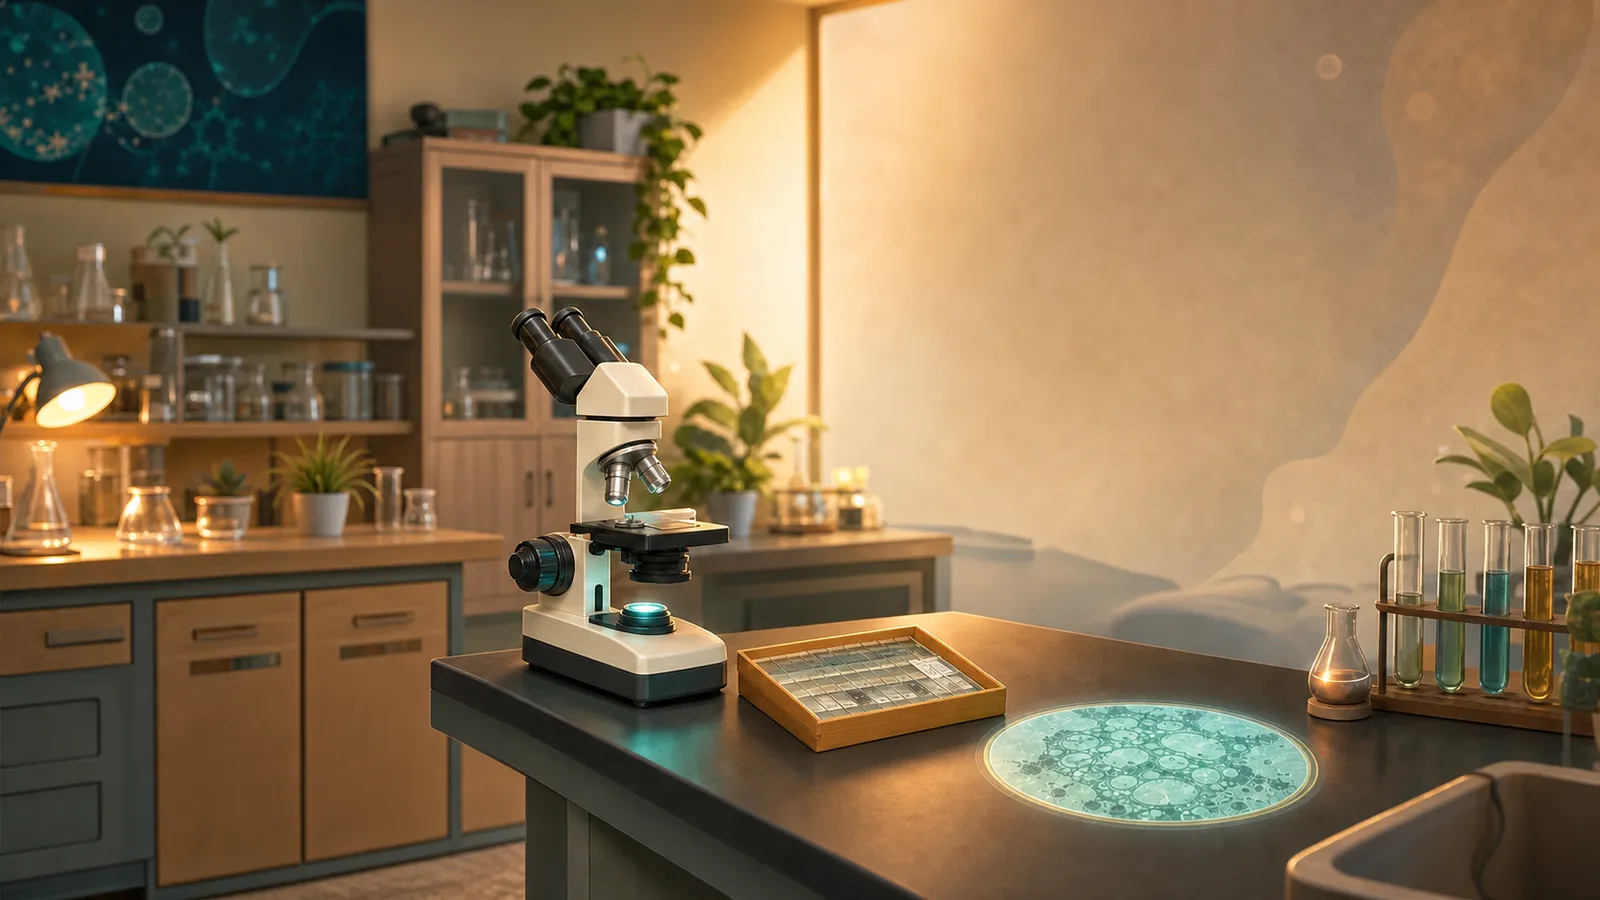
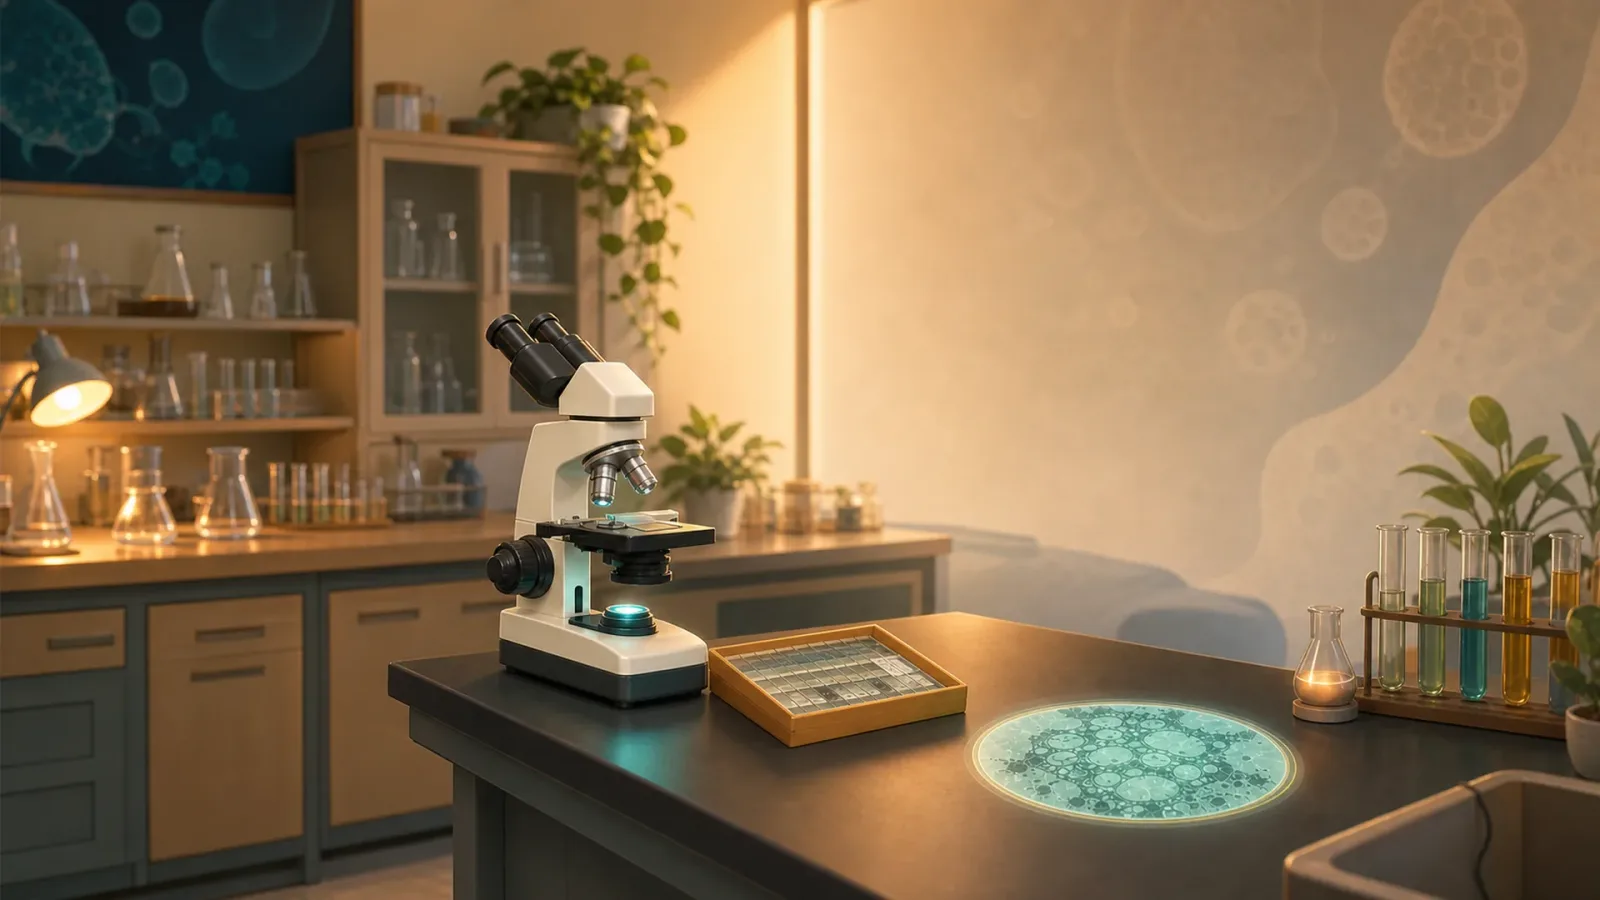
Fix cell structure role layout and cache bust

diff --git a/prototype-cell-structure/styles.css b/prototype-cell-structure/styles.css
@@ -829,6 +829,28 @@ textarea {
   outline-offset: 3px;
 }
 
+.structure-chips {
+  display: flex;
+  flex-wrap: wrap;
+  gap: 8px;
+  margin-top: 14px;
+}
+
+.structure-chip {
+  min-height: 40px;
+  padding: 8px 10px;
+  color: var(--teal-dark);
+  border: 1px solid rgba(11, 95, 118, 0.24);
+  border-radius: 8px;
+  background: #fff;
+  font-weight: 850;
+}
+
+.structure-chip.active {
+  color: #fff;
+  background: var(--teal-dark);
+}
+
 .cell-note {
   margin: 10px 0 0;
   color: var(--muted);
@@ -1235,7 +1257,11 @@ textarea {
   .score-grid,
   .badge-grid,
   .mission-hud,
-  .structure-explorer {
+  .structure-explorer,
+  .brief-character-grid,
+  .title-avatar-card,
+  .prep-owl-hero,
+  .report-owl-hero {
     grid-template-columns: 1fr;
   }
 
@@ -1268,6 +1294,20 @@ textarea {
 
   .owl-frame img {
     max-height: 300px;
+  }
+
+  .title-avatar-visual {
+    height: 240px;
+  }
+
+  .prep-owl-visual,
+  .report-owl-visual {
+    min-height: 190px;
+  }
+
+  .prep-owl-visual img,
+  .report-owl-visual img {
+    max-height: 230px;
   }
 
   .hero-title {
@@ -1368,6 +1408,11 @@ textarea {
 
   .cell-hotspot {
     width: 14%;
+    min-height: 0;
+    padding: 0;
+    border-color: transparent;
+    background: transparent;
+    box-shadow: none;
   }
 
   .structure-card strong {

diff --git a/portal.js b/portal.js
@@ -7,7 +7,7 @@ const units = [
     summary: "正式順序第一單元。已完成學生端靜態原型，含生命現象、生物/非生物、環境條件、EXP 與徽章。",
     tags: ["正式原型", "生命現象", "已可測試"],
     aliases: ["多采多姿的生命世界"],
-    url: "prototype-life-world/?v=20260712-ambient-layout-v1"
+    url: "prototype-life-world/?v=[phone redacted]-cell-structure-consistency-v1"
   },
   {
     title: "探究自然的科學方法",
@@ -16,7 +16,7 @@ const units = [
     sequence: 2,
     summary: "正式順序第二單元。已完成學生端靜態原型，含流程排序、變因分類、資料判讀與結論修正。",
     tags: ["正式原型", "科學方法", "已可測試"],
-    url: "prototype-scientific-method/?v=20260712-ambient-layout-v1"
+    url: "prototype-scientific-method/?v=[phone redacted]-cell-structure-consistency-v1"
   },
   {
     title: "進入實驗室",
@@ -25,7 +25,7 @@ const units = [
     sequence: 3,
     summary: "正式順序第三單元。已完成學生端靜態原型，含器材功能、器材選用、安全情境、操作順序與實驗紀錄。",
     tags: ["正式原型", "實驗安全", "已可測試"],
-    url: "prototype-lab-entry/?v=20260712-ambient-layout-v1"
+    url: "prototype-lab-entry/?v=[phone redacted]-cell-structure-consistency-v1"
   },
   {
     title: "顯微鏡的使用",
@@ -34,7 +34,7 @@ const units = [
     sequence: 4,
     summary: "正式順序第四單元。已完成學生端靜態原型，含部位功能、低倍到高倍操作、倍率視野與搬運收納安全。",
     tags: ["正式原型", "顯微鏡", "已可測試"],
-    url: "prototype-microscope-use/?v=20260712-ambient-layout-v1"
+    url: "prototype-microscope-use/?v=[phone redacted]-cell-structure-consistency-v1"
   },
   {
     title: "生物體的基本單位",
@@ -43,16 +43,16 @@ const units = [
     sequence: 5,
     summary: "正式順序第五單元。已完成學生端靜態原型，含細胞基本單位、單細胞/多細胞、形狀功能與顯微證據判讀。",
     tags: ["正式原型", "細胞", "已可測試"],
-    url: "prototype-cell-basic-unit/?v=[phone redacted]-ambient-layout-v1"
+    url: "prototype-cell-basic-unit/?v=[phone redacted]-cell-structure-consistency-v1"
   },
-  { title: "細胞的構造", unitId: "cell_structure", status: "ready", sequence: 6, summary: "已有模板驗證原型，具細胞圖、構造高亮、配對、比較、EXP 明細與徽章。", tags: ["模板驗證", "細胞構造", "已可測試"], url: "prototype-cell-structure/?v=[phone redacted]-ambient-layout-v1", note: "模板驗證單元" },
-  { title: "細胞的觀察", unitId: "cell_observation", status: "ready", sequence: 7, summary: "正式順序第七單元。已完成學生端靜態原型，含玻片製作、低高倍策略、顯微視野判讀、染色目的與迷思修正。", tags: ["正式原型", "顯微觀察", "已可測試"], url: "prototype-cell-observation/?v=[phone redacted]-badge-layout-v5" },
-  { title: "物質進出細胞的方式", unitId: "cell_transport", status: "ready", sequence: 8, summary: "正式順序第八單元。已完成學生端靜態原型，含擴散與滲透、半透膜、濃度方向、資料判讀與動植物細胞變化。", tags: ["正式原型", "擴散", "滲透", "已可測試"], url: "prototype-cell-transport/?v=[phone redacted]-badge-layout-v5" },
-  { title: "生物體的組成層次", unitId: "biological_organization", status: "ready", sequence: 9, summary: "正式順序第九單元。已完成學生端靜態原型，含組成層次排序、例子分類、單多細胞判斷、植物器官與動植物比較。", tags: ["正式原型", "組成層次", "排序", "植物器官", "已可測試"], url: "prototype-biological-organization/?v=20260711-badge-layout-v5" },
-  { title: "尺度", unitId: "scale", status: "ready", sequence: 10, summary: "正式順序第十單元。已完成學生端靜態原型，含尺度排序、單位配對、觀察工具、標尺判讀、圖像與實際大小。", tags: ["正式原型", "尺度", "比例尺", "觀察工具", "已可測試"], url: "prototype-scale/?v=20260711-badge-layout-v5" },
-  { title: "食物中的養分與能量", unitId: "nutrients_energy", status: "ready", sequence: 11, summary: "正式順序第十一單元。已完成學生端靜態原型，含養分功能、主要食物來源、能量判斷、營養資料與均衡飲食。", tags: ["正式原型", "養分", "能量", "均衡飲食", "已可測試"], url: "prototype-nutrients-energy/?v=20260711-badge-layout-v5" },
-  { title: "養分檢測", unitId: "nutrient_test", status: "ready", sequence: 12, summary: "正式順序第十二單元。已完成學生端靜態原型，含檢測結果判讀、試劑與養分配對、對照組、資料證據與安全判斷。", tags: ["正式原型", "養分檢測", "證據判讀", "安全", "已可測試"], url: "prototype-nutrient-test/?v=20260711-badge-layout-v5" },
-  { title: "酵素", unitId: "enzymes", status: "ready", sequence: 13, summary: "正式順序第十三單元。已完成學生端靜態原型，含酵素作用、專一性、可重複作用、溫度與酸鹼值資料判讀及消化情境。", tags: ["正式原型", "酵素", "專一性", "資料判讀", "已可測試"], url: "prototype-enzymes/?v=20260711-badge-layout-v5" },
+  { title: "細胞的構造", unitId: "cell_structure", status: "ready", sequence: 6, summary: "已有模板驗證原型，具細胞圖、構造高亮、配對、比較、EXP 明細與徽章。", tags: ["模板驗證", "細胞構造", "已可測試"], url: "prototype-cell-structure/?v=[phone redacted]-cell-structure-consistency-v1", note: "模板驗證單元" },
+  { title: "細胞的觀察", unitId: "cell_observation", status: "ready", sequence: 7, summary: "正式順序第七單元。已完成學生端靜態原型，含玻片製作、低高倍策略、顯微視野判讀、染色目的與迷思修正。", tags: ["正式原型", "顯微觀察", "已可測試"], url: "prototype-cell-observation/?v=[phone redacted]-cell-structure-consistency-v1" },
+  { title: "物質進出細胞的方式", unitId: "cell_transport", status: "ready", sequence: 8, summary: "正式順序第八單元。已完成學生端靜態原型，含擴散與滲透、半透膜、濃度方向、資料判讀與動植物細胞變化。", tags: ["正式原型", "擴散", "滲透", "已可測試"], url: "prototype-cell-transport/?v=[phone redacted]-cell-structure-consistency-v1" },
+  { title: "生物體的組成層次", unitId: "biological_organization", status: "ready", sequence: 9, summary: "正式順序第九單元。已完成學生端靜態原型，含組成層次排序、例子分類、單多細胞判斷、植物器官與動植物比較。", tags: ["正式原型", "組成層次", "排序", "植物器官", "已可測試"], url: "prototype-biological-organization/?v=[phone redacted]-cell-structure-consistency-v1" },
+  { title: "尺度", unitId: "scale", status: "ready", sequence: 10, summary: "正式順序第十單元。已完成學生端靜態原型，含尺度排序、單位配對、觀察工具、標尺判讀、圖像與實際大小。", tags: ["正式原型", "尺度", "比例尺", "觀察工具", "已可測試"], url: "prototype-scale/?v=[phone redacted]-cell-structure-consistency-v1" },
+  { title: "食物中的養分與能量", unitId: "nutrients_energy", status: "ready", sequence: 11, summary: "正式順序第十一單元。已完成學生端靜態原型，含養分功能、主要食物來源、能量判斷、營養資料與均衡飲食。", tags: ["正式原型", "養分", "能量", "均衡飲食", "已可測試"], url: "prototype-nutrients-energy/?v=[phone redacted]-cell-structure-consistency-v1" },
+  { title: "養分檢測", unitId: "nutrient_test", status: "ready", sequence: 12, summary: "正式順序第十二單元。已完成學生端靜態原型，含檢測結果判讀、試劑與養分配對、對照組、資料證據與安全判斷。", tags: ["正式原型", "養分檢測", "證據判讀", "安全", "已可測試"], url: "prototype-nutrient-test/?v=[phone redacted]-cell-structure-consistency-v1" },
+  { title: "酵素", unitId: "enzymes", status: "ready", sequence: 13, summary: "正式順序第十三單元。已完成學生端靜態原型，含酵素作用、專一性、可重複作用、溫度與酸鹼值資料判讀及消化情境。", tags: ["正式原型", "酵素", "專一性", "資料判讀", "已可測試"], url: "prototype-enzymes/?v=[phone redacted]-cell-structure-consistency-v1" },
   { title: "植物如何製造養分", unitId: "photosynthesis", status: "spec", sequence: 14, summary: "已有學科與成就規格，尚未製作正式學生端網頁；需等待視覺素材、BadgeRules 與主控確認後建立原型。", tags: ["規格備料", "光合作用", "葉綠體", "變因判讀"] },
   { title: "人體如何獲得養分", unitId: "human_nutrition", status: "spec", sequence: 15, summary: "已有學科與成就規格，尚未製作正式學生端網頁；需等待視覺素材、BadgeRules 與主控確認後建立原型。", tags: ["規格備料", "消化", "吸收", "食物流向"] },
   { title: "植物的運輸構造", unitId: "plant_transport_structures", status: "planned", sequence: 16, summary: "根、莖、葉與維管束相關構造。", tags: ["植物", "運輸"] },

diff --git a/prototype-cell-structure/index.html b/prototype-cell-structure/index.html
@@ -4,8 +4,8 @@
   <meta charset="utf-8">
   <meta name="viewport" content="width=device-width, initial-scale=1">
   <title>生命祕境 BioQuest｜細胞工廠的祕密</title>
-  <link rel="stylesheet" href="styles.css?v=20260712-ambient-layout-v1">
-  <link rel="stylesheet" href="../shared-assets/bioquest-character-layout.css?v=20260711-badge-layout-v5">
+  <link rel="stylesheet" href="styles.css?v=[phone redacted]-cell-structure-consistency-v1">
+  <link rel="stylesheet" href="../shared-assets/bioquest-character-layout.css?v=[phone redacted]-cell-structure-consistency-v1">
 </head>
 <body data-unit-id="cell_structure" data-login-cover-wide="../shared-assets/login/bioquest-login-cover-wide.webp" data-login-cover-mobile="../shared-assets/login/bioquest-login-cover-mobile.webp" data-feedback-mentor-base="../shared-assets/mentor-feedback" data-report-owl-src="../shared-assets/characters/owl-bioquest-report-reminder.webp" data-result-owl-src="../prototype-cell-basic-unit/assets/owl-basic-unit-result.png">
   <div class="app-shell">
@@ -45,6 +45,6 @@
 
   <script src="../shared-assets/bioquest-title-progress.js?v=20260711-title-nonlinear-v2"></script>
   <script src="../shared-assets/bioquest-character-layout.js?v=20260711-character-layout-v4"></script>
-  <script src="app.js?v=20260712-ambient-layout-v1"></script>
+  <script src="app.js?v=[phone redacted]-cell-structure-consistency-v1"></script>
 </body>
 </html>

diff --git a/prototype-microscope-use/index.html b/prototype-microscope-use/index.html
@@ -4,8 +4,8 @@
   <meta charset="utf-8">
   <meta name="viewport" content="width=device-width, initial-scale=1">
   <title>生命祕境 BioQuest｜微觀視野校準任務</title>
-  <link rel="stylesheet" href="styles.css?v=20260712-ambient-layout-v1">
-  <link rel="stylesheet" href="../shared-assets/bioquest-character-layout.css?v=20260711-badge-layout-v5">
+  <link rel="stylesheet" href="styles.css?v=[phone redacted]-cell-structure-consistency-v1">
+  <link rel="stylesheet" href="../shared-assets/bioquest-character-layout.css?v=[phone redacted]-cell-structure-consistency-v1">
 </head>
 <body data-unit-id="microscope_use" data-login-cover-wide="../shared-assets/login/bioquest-login-cover-wide.webp" data-login-cover-mobile="../shared-assets/login/bioquest-login-cover-mobile.webp" data-feedback-mentor-base="../shared-assets/mentor-feedback" data-report-owl-src="../shared-assets/characters/owl-bioquest-report-reminder.webp" data-result-owl-src="../prototype-cell-basic-unit/assets/owl-basic-unit-result.png">
   <div class="app-shell">
@@ -45,6 +45,6 @@
 
   <script src="../shared-assets/bioquest-title-progress.js?v=20260711-title-nonlinear-v2"></script>
   <script src="../shared-assets/bioquest-character-layout.js?v=20260711-character-layout-v4"></script>
-  <script src="app.js?v=20260712-ambient-layout-v1"></script>
+  <script src="app.js?v=[phone redacted]-cell-structure-consistency-v1"></script>
 </body>
 </html>

diff --git a/prototype-cell-structure/app.js b/prototype-cell-structure/app.js
@@ -240,13 +240,14 @@ function titleAvatarPath() {
 
 function renderTitleAvatarCard(context = "brief") {
   const title = titleForExp(state.student ? aggregateStudent().totalExp : 0);
+  const displayTitle = state.student?.current_title || title.current;
   const fallbackAvatar = `../shared-assets/title-avatars/title-01-trainee_investigator-${titleAvatarGender()}.png`;
   return `
     <aside class="title-avatar-card ${context}" data-title-avatar-path="${titleAvatarPath()}">
-      <div class="title-avatar-visual"><img src="${titleAvatarPath()}" alt="${title.current}稱號角色" loading="eager" onerror="this.onerror=null;this.src='${fallbackAvatar}'"></div>
+      <div class="title-avatar-visual"><img src="${titleAvatarPath()}" alt="${displayTitle}稱號角色" loading="eager" onerror="this.onerror=null;this.src='${fallbackAvatar}'"></div>
       <div>
         <span>學生稱號角色</span>
-        <strong>${title.current}</strong>
+        <strong>${displayTitle}</strong>
         <p>${context === "brief" ? "以目前稱號進入本單元任務。" : `累積 ${state.student ? aggregateStudent().totalExp : 0} EXP`}</p>
       </div>
     </aside>

diff --git a/index.html b/index.html
@@ -57,10 +57,10 @@
         <h2>細胞的構造</h2>
         <p>這是先用來建立標準小節模板的驗證單元，因此保留在入口頁，但不代表正式課程第一個單元。</p>
       </div>
-      <a class="primary-link" href="prototype-cell-structure/?v=[phone redacted]-badge-layout-v5">開啟模板驗證頁</a>
+      <a class="primary-link" href="prototype-cell-structure/?v=[phone redacted]-cell-structure-consistency-v1">開啟模板驗證頁</a>
     </section>
   </main>
 
-  <script src="portal.js?v=20260712-basic-unit-canonical-v1"></script>
+  <script src="portal.js?v=[phone redacted]-cell-structure-consistency-v1"></script>
 </body>
 </html>

diff --git a/prototype-biological-organization/index.html b/prototype-biological-organization/index.html
@@ -5,9 +5,9 @@
   <meta name="viewport" content="width=device-width, initial-scale=1">
   <title>生命祕境 BioQuest｜生命階層整理任務</title>
   <link rel="stylesheet" href="styles.css?v=20260711-biological-organization-v1">
-  <link rel="stylesheet" href="../shared-assets/bioquest-character-layout.css?v=20260711-badge-layout-v5">
+  <link rel="stylesheet" href="../shared-assets/bioquest-character-layout.css?v=[phone redacted]-cell-structure-consistency-v1">
 </head>
-<body data-unit-id="biological_organization" data-login-cover-wide="../shared-assets/login/bioquest-login-cover-wide.webp" data-login-cover-mobile="../shared-assets/login/bioquest-login-cover-mobile.webp" data-feedback-mentor-base="../shared-assets/mentor-feedback" data-report-owl-src="../shared-assets/characters/owl-bioquest-report-reminder.webp" data-result-owl-src="../prototype-cell-basic-unit/assets/owl-basic-unit-result.webp">
+<body data-unit-id="biological_organization" data-login-cover-wide="../shared-assets/login/bioquest-login-cover-wide.webp" data-login-cover-mobile="../shared-assets/login/bioquest-login-cover-mobile.webp" data-feedback-mentor-base="../shared-assets/mentor-feedback" data-report-owl-src="../shared-assets/characters/owl-bioquest-report-reminder.webp" data-result-owl-src="../prototype-cell-basic-unit/assets/owl-basic-unit-result.png">
   <div class="app-shell">
     <aside class="side-panel">
       <div class="brand">

diff --git a/prototype-cell-basic-unit/index.html b/prototype-cell-basic-unit/index.html
@@ -4,8 +4,8 @@
   <meta charset="utf-8">
   <meta name="viewport" content="width=device-width, initial-scale=1">
   <title>生命祕境 BioQuest｜生命積木辨識任務</title>
-  <link rel="stylesheet" href="styles.css?v=20260712-ambient-layout-v1">
-  <link rel="stylesheet" href="../shared-assets/bioquest-character-layout.css?v=20260711-badge-layout-v5">
+  <link rel="stylesheet" href="styles.css?v=[phone redacted]-cell-structure-consistency-v1">
+  <link rel="stylesheet" href="../shared-assets/bioquest-character-layout.css?v=[phone redacted]-cell-structure-consistency-v1">
 </head>
 <body data-unit-id="cell_basic_unit" data-login-cover-wide="../shared-assets/login/bioquest-login-cover-wide.webp" data-login-cover-mobile="../shared-assets/login/bioquest-login-cover-mobile.webp" data-feedback-mentor-base="../shared-assets/mentor-feedback" data-report-owl-src="../shared-assets/characters/owl-bioquest-report-reminder.webp" data-result-owl-src="assets/owl-basic-unit-result.png">
   <div class="app-shell">

diff --git a/prototype-cell-observation/index.html b/prototype-cell-observation/index.html
@@ -5,9 +5,9 @@
   <meta name="viewport" content="width=device-width, initial-scale=1">
   <title>生命祕境 BioQuest｜顯微視野偵查任務</title>
   <link rel="stylesheet" href="styles.css?v=[phone redacted]-cell-observation-p1-v3">
-  <link rel="stylesheet" href="../shared-assets/bioquest-character-layout.css?v=20260711-badge-layout-v5">
+  <link rel="stylesheet" href="../shared-assets/bioquest-character-layout.css?v=[phone redacted]-cell-structure-consistency-v1">
 </head>
-<body data-unit-id="cell_observation" data-login-cover-wide="../shared-assets/login/bioquest-login-cover-wide.webp" data-login-cover-mobile="../shared-assets/login/bioquest-login-cover-mobile.webp" data-feedback-mentor-base="../shared-assets/mentor-feedback" data-report-owl-src="../shared-assets/characters/owl-bioquest-report-reminder.webp" data-result-owl-src="../prototype-cell-basic-unit/assets/owl-basic-unit-result.webp">
+<body data-unit-id="cell_observation" data-login-cover-wide="../shared-assets/login/bioquest-login-cover-wide.webp" data-login-cover-mobile="../shared-assets/login/bioquest-login-cover-mobile.webp" data-feedback-mentor-base="../shared-assets/mentor-feedback" data-report-owl-src="../shared-assets/characters/owl-bioquest-report-reminder.webp" data-result-owl-src="../prototype-cell-basic-unit/assets/owl-basic-unit-result.png">
   <div class="app-shell">
     <aside class="side-panel">
       <div class="brand">

diff --git a/prototype-cell-transport/index.html b/prototype-cell-transport/index.html
@@ -5,9 +5,9 @@
   <meta name="viewport" content="width=device-width, initial-scale=1">
   <title>生命祕境 BioQuest｜細胞邊界通行任務</title>
   <link rel="stylesheet" href="styles.css?v=[phone redacted]-cell-transport-p1-v3">
-  <link rel="stylesheet" href="../shared-assets/bioquest-character-layout.css?v=20260711-badge-layout-v5">
+  <link rel="stylesheet" href="../shared-assets/bioquest-character-layout.css?v=[phone redacted]-cell-structure-consistency-v1">
 </head>
-<body data-unit-id="cell_transport" data-login-cover-wide="../shared-assets/login/bioquest-login-cover-wide.webp" data-login-cover-mobile="../shared-assets/login/bioquest-login-cover-mobile.webp" data-feedback-mentor-base="../shared-assets/mentor-feedback" data-report-owl-src="../shared-assets/characters/owl-bioquest-report-reminder.webp" data-result-owl-src="../prototype-cell-basic-unit/assets/owl-basic-unit-result.webp">
+<body data-unit-id="cell_transport" data-login-cover-wide="../shared-assets/login/bioquest-login-cover-wide.webp" data-login-cover-mobile="../shared-assets/login/bioquest-login-cover-mobile.webp" data-feedback-mentor-base="../shared-assets/mentor-feedback" data-report-owl-src="../shared-assets/characters/owl-bioquest-report-reminder.webp" data-result-owl-src="../prototype-cell-basic-unit/assets/owl-basic-unit-result.png">
   <div class="app-shell">
     <aside class="side-panel">
       <div class="brand">

diff --git a/prototype-lab-entry/index.html b/prototype-lab-entry/index.html
@@ -4,8 +4,8 @@
   <meta charset="utf-8">
   <meta name="viewport" content="width=device-width, initial-scale=1">
   <title>生命祕境 BioQuest｜實驗室安全啟動任務</title>
-  <link rel="stylesheet" href="styles.css?v=20260712-ambient-layout-v1">
-  <link rel="stylesheet" href="../shared-assets/bioquest-character-layout.css?v=20260711-badge-layout-v5">
+  <link rel="stylesheet" href="styles.css?v=[phone redacted]-cell-structure-consistency-v1">
+  <link rel="stylesheet" href="../shared-assets/bioquest-character-layout.css?v=[phone redacted]-cell-structure-consistency-v1">
 </head>
 <body data-unit-id="lab_intro" data-login-cover-wide="../shared-assets/login/bioquest-login-cover-wide.webp" data-login-cover-mobile="../shared-assets/login/bioquest-login-cover-mobile.webp" data-feedback-mentor-base="../shared-assets/mentor-feedback" data-report-owl-src="../shared-assets/characters/owl-bioquest-report-reminder.webp" data-result-owl-src="assets/owl-lab-cleanup.png">
   <div class="app-shell">

diff --git a/prototype-life-world/index.html b/prototype-life-world/index.html
@@ -4,8 +4,8 @@
   <meta charset="utf-8">
   <meta name="viewport" content="width=device-width, initial-scale=1">
   <title>生命祕境 BioQuest｜生命訊號偵測任務</title>
-  <link rel="stylesheet" href="styles.css?v=20260712-ambient-layout-v1">
-  <link rel="stylesheet" href="../shared-assets/bioquest-character-layout.css?v=20260711-badge-layout-v5">
+  <link rel="stylesheet" href="styles.css?v=[phone redacted]-cell-structure-consistency-v1">
+  <link rel="stylesheet" href="../shared-assets/bioquest-character-layout.css?v=[phone redacted]-cell-structure-consistency-v1">
 </head>
 <body data-unit-id="life_world" data-login-cover-wide="../shared-assets/login/bioquest-login-cover-wide.webp" data-login-cover-mobile="../shared-assets/login/bioquest-login-cover-mobile.webp" data-feedback-mentor-base="../shared-assets/mentor-feedback" data-report-owl-src="../shared-assets/characters/owl-bioquest-report-reminder.webp" data-result-owl-src="assets/owl-life-result.png">
   <div class="app-shell">